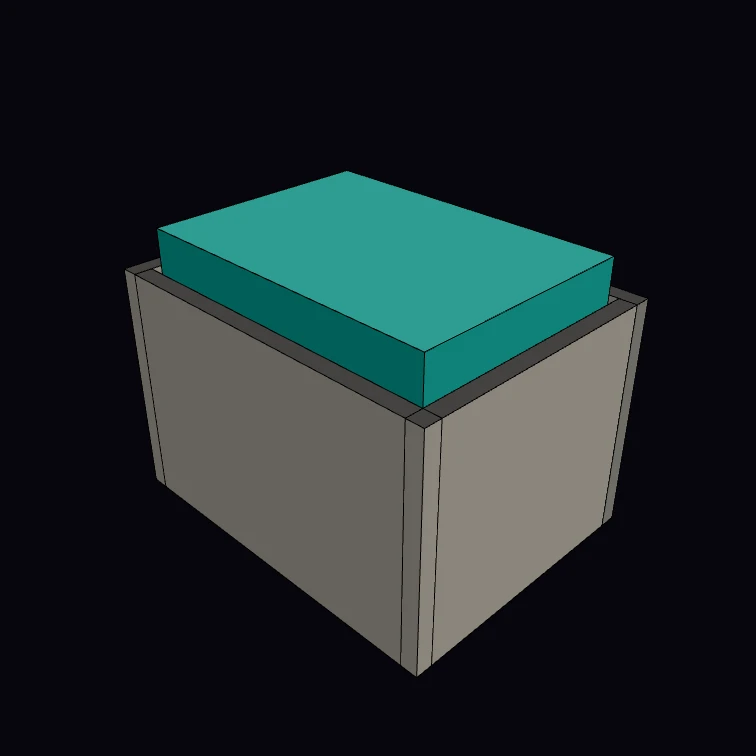
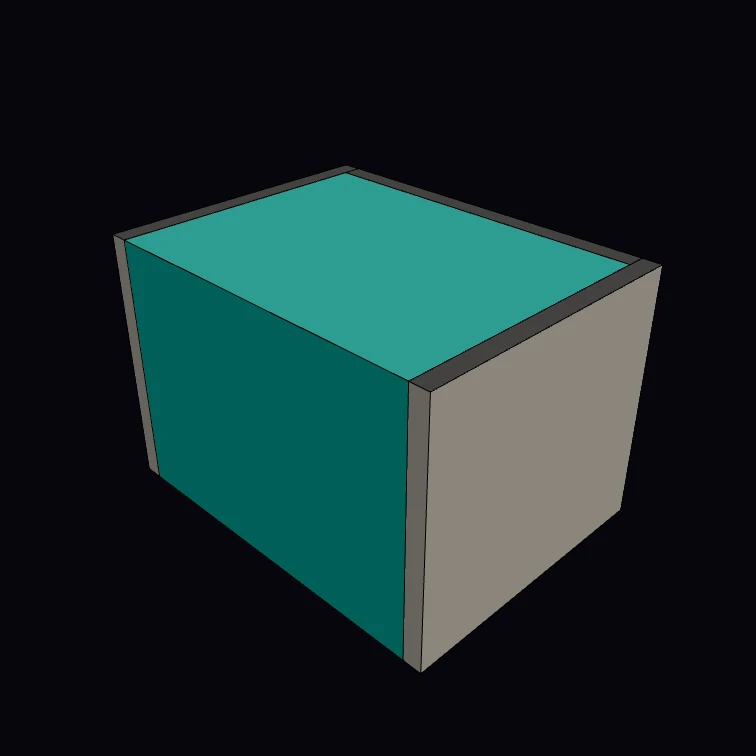
fix(playground): rework BIM examples for correct, connected geometry
The five BIM examples shipped in #1485 had geometry that read as wrong or
disconnected. Rework each so the placement is computed from the elements'
measured local extents:

- steel-frame: a connected 2-bay portal frame (6 I-beam columns, perimeter +
  transverse beams, deck seated on the beam tops) instead of a floating table.
- building-shell: four walls that meet cleanly at the corners on a foundation
  plinth, with a door, two windows and a gable roof — no longer basic/weird.
- switchback-stair: a legible half-turn — two flights in parallel lanes split
  by an open well, a half-landing at the 180 turn and a top arrival landing,
  with a posted guardrail. Flight 2's foot now sits at the turn (x=run), so it
  no longer climbs back over flight 1 in a confusing sandwich.
- space-volume: a cutaway enclosure (front wall removed) so the IfcSpace reads
  as a tinted volume nested inside the walls, not a slab floating above them.

Thumbnails re-shot for all five.

Changed region(s): [[0.1521, 0.2434, 0.8823, 0.9127], [0.3955, 0.213, 0.5172, 0.2434]]

diff --git a/apps/playground/src/lib/examples/bim.ts b/apps/playground/src/lib/examples/bim.ts
@@ -183,12 +183,12 @@ export default present(parts, {
     id: 'bim-steel-frame',
     label: 'Steel Frame',
     description:
-      'A single-bay structural steel frame — four I-section columns, perimeter beams, and a floor slab — grouped as an IfcElementAssembly in a real spatial structure. Each element is read back already placed via placedSolids(), so the view matches the IFC export. Tinted by material role.',
+      'A connected two-bay structural steel frame: I-section columns on a 3×2 grid, a beam grid tying their heads together, and a concrete floor deck seated on the beams — all grouped as an IfcElementAssembly. Members deliberately overlap at the joints so the structure reads as one piece. Each element is read back already placed via placedSolids().',
     code: `import { BimModel, placedSolids, toIfc } from 'brepjs-bim';
 import { unwrap } from 'brepjs/quick';
 import { color, present } from 'brepjs/playground';
 
-// Columns + perimeter beams + a floor slab, grouped as an IfcElementAssembly.
+// A two-bay steel frame: 3x2 columns, a beam grid over their heads, a floor deck.
 const model = new BimModel();
 model.init({ name: 'Steel frame' });
 const site = model.addSite({ name: 'Site' });
@@ -199,40 +199,42 @@ if (project) model.aggregate(project.localId, site);
 model.aggregate(site, building);
 model.aggregate(building, storey);
 
-const BAY = 4000, DEPTH = 3000, COL_H = 3500;
-const section = { kind: 'I_BEAM', overallWidth: 150, overallDepth: 200, flangeThickness: 12, webThickness: 8 } as const;
+const COLS = [0, 3500, 7000];   // column lines along X (two bays)
+const ROWS = [0, 3000];          // column lines along Y
+const SPAN_X = 7000, SPAN_Y = 3000, COL_H = 3200;
+const I = { kind: 'I_BEAM', overallWidth: 150, overallDepth: 200, flangeThickness: 12, webThickness: 8 } as const;
 
-for (const [x, y] of [[0, 0], [BAY, 0], [BAY, DEPTH], [0, DEPTH]] as [number, number][]) {
-  const col = model.addColumn({ height: COL_H, profile: section, origin: [x, y, 0], axisX: [1, 0, 0], axisZ: [0, 0, 1], materialName: 'Steel' });
+for (const x of COLS) for (const y of ROWS) {
+  const col = model.addColumn({ height: COL_H, profile: I, origin: [x, y, 0], axisX: [1, 0, 0], axisZ: [0, 0, 1], materialName: 'Steel' });
   if (!col.ok) throw col.error;
   model.placeIn(col.value, storey);
 }
-const beamDefs: { origin: [number, number, number]; axisX: [number, number, number]; len: number }[] = [
-  { origin: [0, 0, COL_H], axisX: [1, 0, 0], len: BAY },
-  { origin: [0, DEPTH, COL_H], axisX: [1, 0, 0], len: BAY },
-  { origin: [0, 0, COL_H], axisX: [0, 1, 0], len: DEPTH },
-  { origin: [BAY, 0, COL_H], axisX: [0, 1, 0], len: DEPTH },
-];
-for (const b of beamDefs) {
-  const beam = model.addBeam({ length: b.len, profile: section, origin: b.origin, axisX: b.axisX, axisZ: [0, 0, 1], materialName: 'Steel' });
-  if (!beam.ok) throw beam.error;
-  model.placeIn(beam.value, storey);
+// Beams are centred on z=COL_H, so the I-section (+/-100 deep) straddles the column
+// heads — the joints overlap rather than just touch.
+for (const y of ROWS) {
+  const b = model.addBeam({ length: SPAN_X, profile: I, origin: [0, y, COL_H], axisX: [1, 0, 0], axisZ: [0, 0, 1], materialName: 'Steel' });
+  if (!b.ok) throw b.error;
+  model.placeIn(b.value, storey);
 }
-const slab = model.addSlab({ length: BAY, width: DEPTH, thickness: 150, origin: [0, 0, COL_H + 200], axisX: [1, 0, 0], axisZ: [0, 0, 1], predefinedType: 'FLOOR', materialName: 'Concrete' });
-if (!slab.ok) throw slab.error;
-model.placeIn(slab.value, storey);
+for (const x of COLS) {
+  const b = model.addBeam({ length: SPAN_Y, profile: I, origin: [x, 0, COL_H], axisX: [0, 1, 0], axisZ: [0, 0, 1], materialName: 'Steel' });
+  if (!b.ok) throw b.error;
+  model.placeIn(b.value, storey);
+}
+// Deck seated on the beams: beam tops are at COL_H+100, so a deck bottom at COL_H+70
+// overlaps them by 30mm — no floating gap.
+const deck = model.addSlab({ length: SPAN_X, width: SPAN_Y, thickness: 150, origin: [0, 0, COL_H + 70], axisX: [1, 0, 0], axisZ: [0, 0, 1], predefinedType: 'FLOOR', materialName: 'Concrete' });
+if (!deck.ok) throw deck.error;
+model.placeIn(deck.value, storey);
 
 const assembly = model.addElementAssembly({ name: 'Frame' });
-model.aggregate(assembly, slab.value);
-for (const c of model.getColumns()) model.aggregate(assembly, c.localId);
-for (const bm of model.getBeams()) model.aggregate(assembly, bm.localId);
+for (const e of [...model.getColumns(), ...model.getBeams(), ...model.getSlabs()]) model.aggregate(assembly, e.localId);
 
-// placedSolids returns a Result of fresh, caller-owned solids; here the playground
-// runtime owns the displayed geometry for this eval, so the snippet doesn't dispose it.
+// Playground runtime owns the displayed geometry for this eval; snippets don't dispose it.
 const steel = [...model.getColumns(), ...model.getBeams()].flatMap((e) => unwrap(placedSolids(e))).map((s) => color(s, '#8a99ad'));
-const deck = unwrap(placedSolids(model.getSlabs()[0])).map((s) => color(s, '#cfcabb'));
+const deckSolids = unwrap(placedSolids(model.getSlabs()[0])).map((s) => color(s, '#cfcabb'));
 
-export default present([...steel, ...deck], {
+export default present([...steel, ...deckSolids], {
   bimTree: model.toTreeSummary(),
   ifc: async () => {
     const r = await toIfc(model, { applicationName: 'brepjs playground', applicationVersion: '1.0' });
@@ -251,6 +253,8 @@ export default present([...steel, ...deck], {
 import { unwrap } from 'brepjs/quick';
 import { color, present } from 'brepjs/playground';
 
+// A single-room shell on a foundation plinth: four walls that meet cleanly at the
+// corners, a door + two windows, a gable roof seated on the wall heads, + an IfcSpace.
 const model = new BimModel();
 model.init({ name: 'Building shell' });
 const site = model.addSite({ name: 'Site' });
@@ -262,21 +266,20 @@ model.aggregate(site, building);
 model.aggregate(building, storey);
 
 const L = 5000, W = 4000, H = 2700, T = 200;
-const slab = model.addSlab({ length: L, width: W, thickness: T, origin: [0, 0, -T], axisX: [1, 0, 0], axisZ: [0, 0, 1], predefinedType: 'FLOOR', materialName: 'Concrete' });
-if (!slab.ok) throw slab.error;
-model.placeIn(slab.value, storey);
 
-for (const [x, y] of [[0, 0], [L, 0], [L, W], [0, W]] as [number, number][]) {
-  const footing = model.addFooting({ length: 600, width: 600, thickness: 400, origin: [x - 300, y - 300, -T - 400], axisX: [1, 0, 0], axisZ: [0, 0, 1], predefinedType: 'PAD_FOOTING', materialName: 'Concrete' });
-  if (!footing.ok) throw footing.error;
-  model.placeIn(footing.value, storey);
-}
+// Foundation plinth: 100mm proud of the footprint, top flush with the floor (z=0).
+const plinth = model.addSlab({ length: L + 200, width: W + 200, thickness: 300, origin: [-100, -100, -300], axisX: [1, 0, 0], axisZ: [0, 0, 1], predefinedType: 'BASESLAB', materialName: 'Concrete' });
+if (!plinth.ok) throw plinth.error;
+model.placeIn(plinth.value, storey);
 
+// Walls extrude thickness on one side of their origin line. Front/back run the full
+// length (y in [0,T] and [W-T,W]); left/right fit BETWEEN them (length W-2T) so the
+// corners meet without doubling up.
 const wallDefs: { origin: [number, number, number]; axisX: [number, number, number]; len: number }[] = [
   { origin: [0, 0, 0], axisX: [1, 0, 0], len: L },
-  { origin: [0, W, 0], axisX: [1, 0, 0], len: L },
-  { origin: [0, 0, 0], axisX: [0, 1, 0], len: W },
-  { origin: [L, 0, 0], axisX: [0, 1, 0], len: W },
+  { origin: [0, W - T, 0], axisX: [1, 0, 0], len: L },
+  { origin: [T, T, 0], axisX: [0, 1, 0], len: W - 2 * T },
+  { origin: [L, T, 0], axisX: [0, 1, 0], len: W - 2 * T },
 ];
 const wallIds = [];
 for (const d of wallDefs) {
@@ -285,27 +288,32 @@ for (const d of wallDefs) {
   model.placeIn(wall.value, storey);
   wallIds.push(wall.value);
 }
-const door = model.addDoor({ wallLocalId: wallIds[0], width: 900, height: 2100, offsetAlongWall: 600, offsetFromFloor: 0, materialName: 'Timber' });
+const door = model.addDoor({ wallLocalId: wallIds[0], width: 1000, height: 2100, offsetAlongWall: 700, offsetFromFloor: 0, materialName: 'Timber' });
 if (!door.ok) throw door.error;
 model.placeIn(door.value, storey);
-const win = model.addWindow({ wallLocalId: wallIds[0], width: 1500, height: 1200, offsetAlongWall: 2800, offsetFromFloor: 900, materialName: 'Aluminium' });
-if (!win.ok) throw win.error;
-model.placeIn(win.value, storey);
+const win1 = model.addWindow({ wallLocalId: wallIds[0], width: 1400, height: 1100, offsetAlongWall: 3000, offsetFromFloor: 1000, materialName: 'Aluminium' });
+if (!win1.ok) throw win1.error;
+model.placeIn(win1.value, storey);
+const win2 = model.addWindow({ wallLocalId: wallIds[1], width: 1400, height: 1100, offsetAlongWall: 1800, offsetFromFloor: 1000, materialName: 'Aluminium' });
+if (!win2.ok) throw win2.error;
+model.placeIn(win2.value, storey);
 
-const roof = model.addRoof({ length: L, width: W, thickness: 150, origin: [0, 0, H], axisX: [1, 0, 0], axisZ: [0, 0, 1], predefinedType: 'GABLE_ROOF', pitch: 30, materialName: 'Tile' });
+// Gable roof seated on the wall heads (roof base at z=H).
+const roof = model.addRoof({ length: L, width: W, thickness: 150, origin: [0, 0, H], axisX: [1, 0, 0], axisZ: [0, 0, 1], predefinedType: 'GABLE_ROOF', pitch: 32, materialName: 'Tile' });
 if (!roof.ok) throw roof.error;
 model.placeIn(roof.value, storey);
 
+// The room volume itself — a first-class IfcSpace, kept in the model + IFC tree.
 const space = model.addSpace({ name: 'Room', length: L - 2 * T, width: W - 2 * T, height: H, origin: [T, T, 0], axisX: [1, 0, 0], axisZ: [0, 0, 1], materialName: 'Air' });
 if (!space.ok) throw space.error;
 model.placeIn(space.value, storey);
 
-// placedSolids returns a Result of fresh, caller-owned solids; here the playground
-// runtime owns the displayed geometry for this eval, so the snippet doesn't dispose it.
-const concrete = [...model.getWalls(), ...model.getSlabs(), ...model.getFootings()].flatMap((e) => unwrap(placedSolids(e))).map((s) => color(s, '#cfcabb'));
+// Playground runtime owns the displayed geometry for this eval; snippets don't dispose it.
+const walls = model.getWalls().flatMap((e) => unwrap(placedSolids(e))).map((s) => color(s, '#d9d3c7'));
+const base = unwrap(placedSolids(model.getSlabs()[0])).map((s) => color(s, '#9a948a'));
 const tile = unwrap(placedSolids(model.getRoofs()[0])).map((s) => color(s, '#9c6b52'));
 
-export default present([...concrete, ...tile], {
+export default present([...walls, ...base, ...tile], {
   bimTree: model.toTreeSummary(),
   ifc: async () => {
     const r = await toIfc(model, { applicationName: 'brepjs playground', applicationVersion: '1.0' });
@@ -319,11 +327,15 @@ export default present([...concrete, ...tile], {
     id: 'bim-switchback-stair',
     label: 'Switchback Stair',
     description:
-      'A half-turn (switchback) stair: two straight flights at 180°, an intermediate landing slab, and a posted guardrail. The stair is an IFC assembly with no solid of its own — its flights are read back as placed solids via placedSolids().',
+      'A half-turn (switchback) stair: two straight flights running opposite ways in parallel lanes, a half-landing at the 180° turn and a top arrival landing, plus a posted guardrail. The stair is an IFC assembly with no solid of its own — its flights are read back as placed solids via placedSolids().',
     code: `import { BimModel, placedSolids, toIfc } from 'brepjs-bim';
 import { unwrap } from 'brepjs/quick';
-import { present } from 'brepjs/playground';
+import { color, present } from 'brepjs/playground';
 
+// A half-turn (switchback) stair. Two straight flights run in opposite directions
+// in parallel lanes separated by an open well; flight 1 climbs from the ground to a
+// half-landing, you turn 180 degrees, and flight 2 climbs the other way to a top
+// landing. Each flight is a real stepped solid read back via placedSolids().
 const model = new BimModel();
 model.init({ name: 'Stair core' });
 const site = model.addSite({ name: 'Site' });
@@ -334,41 +346,52 @@ if (project) model.aggregate(project.localId, site);
 model.aggregate(site, building);
 model.aggregate(building, storey);
 
-const RISERS = 9, RH = 175, TL = 260, WIDTH = 1100;
-const runLen = RISERS * TL, rise = RISERS * RH, LANDING_D = 1500;
-const flightCommon = { width: WIDTH, riserHeight: RH, treadLength: TL, numberOfRisers: RISERS, axisZ: [0, 0, 1] as [number, number, number], materialName: 'Concrete' };
+const RISERS = 9, RH = 175, TL = 260, W = 1100, LT = 200;
+const run = RISERS * TL, rise = RISERS * RH;   // 2340 long, 1575 tall per flight
+const GAP = 300;                                 // open well between the two lanes
+const SPANY = 2 * W + GAP;                       // far edge of the upper lane (2500)
+const LANE2 = W + GAP;                           // near edge of the upper lane (1400)
+const LD = 1100;                                 // half-landing depth (along X)
+
+// A flight's local solid climbs +X/+Z with its width on +Y; placement maps that frame.
+const flight = { width: W, riserHeight: RH, treadLength: TL, numberOfRisers: RISERS, axisZ: [0, 0, 1] as [number, number, number], materialName: 'Concrete' };
 const stair = model.addStair({
   name: 'Stair',
   predefinedType: 'HALF_TURN_STAIR',
-  // Flight 1 runs +X in lane y in [0, WIDTH]; flight 2 runs -X (axisX = -X flips its
-  // width into -Y), so it occupies the ADJACENT lane y in [WIDTH, 2*WIDTH] — the two
-  // flights sit side by side (total width 2*WIDTH), flight 2 starting at the landing's
-  // far edge (runLen + LANDING_D) and climbing back over flight 1.
   flights: [
-    { ...flightCommon, origin: [0, 0, 0], axisX: [1, 0, 0] },
-    { ...flightCommon, origin: [runLen + LANDING_D, WIDTH * 2, rise], axisX: [-1, 0, 0] },
+    // Flight 1: foot at origin, climbing +X in the lower lane y in [0, W], z 0 -> rise.
+    { ...flight, origin: [0, 0, 0], axisX: [1, 0, 0] },
+    // Flight 2: foot at the turn (x = run), climbing back -X one level up. The -X axis
+    // flips its width onto -Y, so it sits in the upper lane y in [LANE2, SPANY],
+    // separated from flight 1 by the open well. z rise -> 2*rise.
+    { ...flight, origin: [run, SPANY, rise], axisX: [-1, 0, 0] },
   ],
   materialName: 'Concrete',
 });
 if (!stair.ok) throw stair.error;
 model.placeIn(stair.value, storey);
 
-const landing = model.addSlab({ length: LANDING_D, width: WIDTH * 2, thickness: 200, origin: [runLen, 0, rise - 200], axisX: [1, 0, 0], axisZ: [0, 0, 1], predefinedType: 'LANDING', materialName: 'Concrete' });
+// Half-landing at the turn: spans both lanes + the well at the east end, top flush
+// with the flight-1 head (z = rise); both flights seat on it.
+const landing = model.addSlab({ length: LD, width: SPANY, thickness: LT, origin: [run - 100, 0, rise - LT], axisX: [1, 0, 0], axisZ: [0, 0, 1], predefinedType: 'LANDING', materialName: 'Concrete' });
 if (!landing.ok) throw landing.error;
 model.placeIn(landing.value, storey);
 
-const rail = model.addRailing({ length: LANDING_D, height: 1000, thickness: 80, origin: [runLen, 0, rise], axisX: [1, 0, 0], axisZ: [0, 0, 1], predefinedType: 'GUARDRAIL', infill: 'POSTED', materialName: 'Steel' });
+// Top landing: the upper-floor arrival pad under flight 2's head (x = 0, z = 2*rise).
+const top = model.addSlab({ length: 500, width: W, thickness: LT, origin: [-300, LANE2, 2 * rise - LT], axisX: [1, 0, 0], axisZ: [0, 0, 1], predefinedType: 'LANDING', materialName: 'Concrete' });
+if (!top.ok) throw top.error;
+model.placeIn(top.value, storey);
+
+// Posted guardrail along the half-landing's open (south) edge.
+const rail = model.addRailing({ length: LD, height: 1000, thickness: 80, origin: [run - 100, 0, rise], axisX: [1, 0, 0], axisZ: [0, 0, 1], predefinedType: 'GUARDRAIL', infill: 'POSTED', materialName: 'Steel' });
 if (!rail.ok) throw rail.error;
 model.placeIn(rail.value, storey);
 
-// Displayed geometry is owned by the playground runtime for this eval; snippets don't dispose it.
-const parts = [
-  ...unwrap(placedSolids(model.getStairs()[0])),
-  ...unwrap(placedSolids(model.getSlabs()[0])),
-  ...unwrap(placedSolids(model.getRailings()[0])),
-];
+// Playground runtime owns the displayed geometry for this eval; snippets don't dispose it.
+const concrete = [...unwrap(placedSolids(model.getStairs()[0])), ...model.getSlabs().flatMap((e) => unwrap(placedSolids(e)))].map((s) => color(s, '#cccccc'));
+const steel = unwrap(placedSolids(model.getRailings()[0])).map((s) => color(s, '#8a99ad'));
 
-export default present(parts, {
+export default present([...concrete, ...steel], {
   bimTree: model.toTreeSummary(),
   ifc: async () => {
     const r = await toIfc(model, { applicationName: 'brepjs playground', applicationVersion: '1.0' });
@@ -422,7 +445,7 @@ export default present(parts, {
     id: 'bim-space-volume',
     label: 'Space Volume',
     description:
-      'An IfcSpace — the room volume itself, a first-class spatial element — shown as a tinted solid inside its four neutral bounding walls (it rises just above the walls so the volume reads). Illustrates the pure-BIM “space” concept that has no equivalent in plain solid modelling.',
+      'An IfcSpace — the room volume itself, a first-class spatial element — shown as a tinted solid nested inside a cutaway enclosure (front wall removed) so the volume reads clearly against its neutral bounding walls. Illustrates the pure-BIM “space” concept that has no equivalent in plain solid modelling.',
     code: `import { BimModel, placedSolids, toIfc } from 'brepjs-bim';
 import { unwrap } from 'brepjs/quick';
 import { color, present } from 'brepjs/playground';
@@ -438,19 +461,22 @@ model.aggregate(site, building);
 model.aggregate(building, storey);
 
 const L = 4000, W = 3000, H = 2700, T = 200;
+// A cutaway enclosure: three walls (back + two sides) with the front wall removed,
+// so the tinted space reads as a volume nested *inside* the room rather than a slab
+// floating on top. Each side wall extrudes its thickness inward (toward the room).
 const wallDefs: { origin: [number, number, number]; axisX: [number, number, number]; len: number }[] = [
-  { origin: [0, 0, 0], axisX: [1, 0, 0], len: L },
-  { origin: [0, W, 0], axisX: [1, 0, 0], len: L },
-  { origin: [0, 0, 0], axisX: [0, 1, 0], len: W },
-  { origin: [L, 0, 0], axisX: [0, 1, 0], len: W },
+  { origin: [T, W - T, 0], axisX: [1, 0, 0], len: L - 2 * T }, // back, between the sides
+  { origin: [T, 0, 0], axisX: [0, 1, 0], len: W },             // left side, full depth
+  { origin: [L, 0, 0], axisX: [0, 1, 0], len: W },             // right side, full depth
 ];
 for (const d of wallDefs) {
   const wall = model.addWall({ length: d.len, height: H, thickness: T, origin: d.origin, axisX: d.axisX, axisZ: [0, 0, 1], materialName: 'Concrete' });
   if (!wall.ok) throw wall.error;
   model.placeIn(wall.value, storey);
 }
-// Space rises 500mm above the walls so the volume is visible above the enclosure.
-const space = model.addSpace({ name: 'Room', length: L - 2 * T, width: W - 2 * T, height: H + 500, origin: [T, T, 0], axisX: [1, 0, 0], axisZ: [0, 0, 1], materialName: 'Air' });
+// The room volume itself: a first-class IfcSpace filling the interior to the wall
+// heads, flush with the three inner faces and open at the cut-away front.
+const space = model.addSpace({ name: 'Room', length: L - 2 * T, width: W - T, height: H, origin: [T, 0, 0], axisX: [1, 0, 0], axisZ: [0, 0, 1], materialName: 'Air' });
 if (!space.ok) throw space.error;
 model.placeIn(space.value, storey);
 
